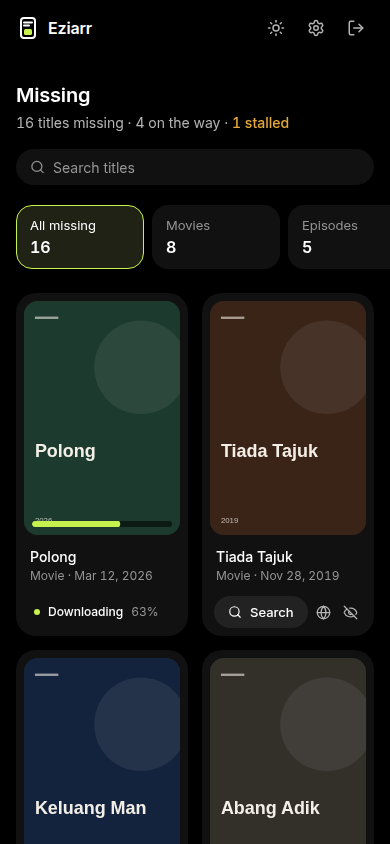
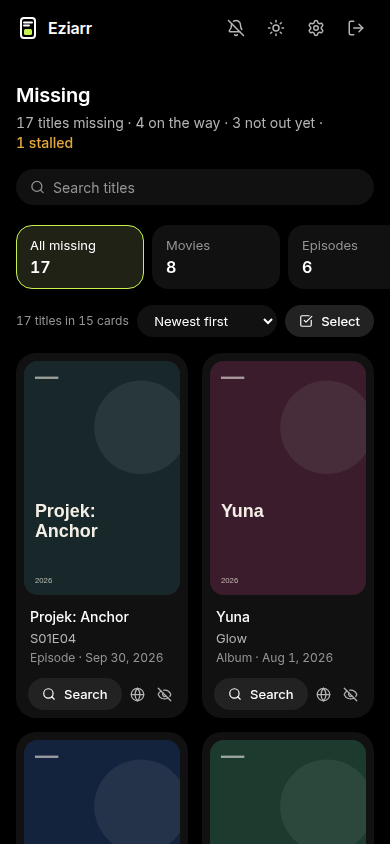
chore: bumpver 1.5.0; docs and screenshots for 1.5
README (features, upgrading to 1.5 and the event stream behind proxies),
DEVELOPER (bulk and stream API, the new frontend modules, the smoke
test), CONTRIBUTING and AGENTS (smoke test, rule 13: the wall stays
virtualized), CHANGELOG 1.5.0, and new screenshots of the wall,
sign-in and first-start setup.

Claude-Session: https://claude.ai/code/session_01VgLCrRvJJ5k5cEMnbjriKV

diff --git a/DEVELOPER.md b/DEVELOPER.md
@@ -99,10 +99,12 @@ Everything is under `/api/v1`. Public: `GET /` (health), `GET`/`POST /firsttime`
 
 | Area | Routes |
 | --- | --- |
-| Missing | `GET /missing` (missing items + all queues + `unavailable` services) · `POST /missing/search` · `POST /missing/deepsearch` (Prowlarr) · `POST /missing/forcegrab` · `POST /missing/unmonitor` |
+| Missing | `GET /missing` (missing items + all queues + `unavailable` services) · `GET /missing/stream` (server-sent events, below) · `POST /missing/search` · `POST /missing/bulk` (`search` or `unmonitor` a selection; one *Arr call per service) · `POST /missing/deepsearch` (Prowlarr) · `POST /missing/forcegrab` · `POST /missing/unmonitor` |
 | Downloads | `POST /telegram/import` · `POST /http/import` · `GET /downloads/queue` · `GET /downloads/history` · `GET /downloads/stats` |
 | Sources | `GET /telegram/status` · `POST /telegram/auth/send-code` · `POST /telegram/auth/login` · `POST /telegram/search` · `POST /ia/search` · `GET /ia/files/:identifier` · `POST /opendir/scan` |
 | Settings & system | `GET`/`POST /settings` · `POST /settings/batch` · `GET /system/status` · `POST /system/test` · `GET /system/tasks` · `GET /system/logs?type=general\|hunter` |
+
+**The live stream.** `GET /missing/stream` sends `event: missing` (the list) and `event: queue` (`{ queue, unavailable }`), each only when it changed, and a `: ping` comment otherwise. One 4 s loop in the server feeds every open stream and stops when the last one closes; the 5 s queue cache in `fetchAllQueues` keeps the *Arrs from being asked more often than that, however many tabs are open. Every tick re-checks the access token the stream opened with, so the stream ends when it expires (15 min) or the password changes; the page then refreshes its session and reconnects (`hooks/useLiveMissing.js`).
 
 Response schemas are enforced: Elysia **drops fields a response model doesn't declare**, so a new field needs adding to its model in `models/` or it never reaches the UI. With `NODE_ENV=development`, the OpenAPI UI is served at `/openapi`.
 
@@ -110,8 +112,16 @@ Response schemas are enforced: Elysia **drops fields a response model doesn't de
 
 | Path | Role |
 | --- | --- |
-| `App.jsx` | Shell (top bar, theme toggle), title row, count-card filters, poster wall; lazy-loads the two sheets. |
-| `components/MediaCard.jsx` | A poster tile: download rail and state, search / deep search / unmonitor. |
+| `App.jsx` | Shell (top bar, theme and notification toggles), title row, count-card filters, sort and select, the wall; lazy-loads the two sheets and the backdrop. |
+| `components/MediaWall.jsx` | The wall, virtualized by row with `@tanstack/react-virtual` against the window scroll: only rows near the screen exist. |
+| `components/MediaCard.jsx`, `SeriesCard.jsx` | A title's card (download rail and state, search / deep search / unmonitor) and a series card (several episodes, with the episode list). |
+| `components/Poster.jsx` | Shared by both cards: the poster with tilt and fallback, the download rail, the card frame and its selection overlay. |
+| `components/BulkBar.jsx` | The action bar of select mode. |
+| `components/PosterDrift.jsx` | The three.js backdrop behind sign-in and "All caught up"; lazy, so the wall never loads three.js. |
+| `utils/wall.js` | Pure helpers: `isUpcoming`, episode codes, folding episodes into series, sorting. |
+| `hooks/useLiveMissing.js` | SWR plus the event stream; polls only while the stream is down. |
+| `hooks/useArrivals.js` | "Downloaded" toasts and opt-in notifications (remembers titles seen downloading until they leave the list). |
+| `hooks/useShortcuts.js` | `/` and Esc. |
 | `components/ResultsModal.jsx` + `*Tab.jsx` | Deep search: Indexers, Telegram, Internet Archive, Open directory. |
 | `components/SettingsModal.jsx` + `settings/*Tab.jsx` | Settings sheet shell (state and data) and one presentational file per tab. |
 | `components/Modal.jsx`, `Tabs.jsx`, `Buttons.jsx`, `Mark.jsx` | Shared primitives: portalled animated dialog, underline tabs, buttons, the logo. |
@@ -122,14 +132,19 @@ Response schemas are enforced: Elysia **drops fields a response model doesn't de
 
 **Design rules:** use the tokens, never raw Tailwind palette colours, so both themes work. Surfaces separate by lightness, not borders or shadows (only floating things like dialogs and toasts get a shadow). The one accent colour goes on data (download progress, the selected filter), not on chrome. The main action is an inverted pill.
 
-**Motion** (`motion/react`, wrapped in `MotionConfig reducedMotion="user"`) is feedback: presses, sheets, rows arriving and leaving, the wall reflowing on filter, progress. Animate transform and opacity only.
+**Motion** (`motion/react`, wrapped in `MotionConfig reducedMotion="user"`) is feedback: presses, sheets, rows arriving and leaving, progress, the poster tilt. Animate transform and opacity only. The wall's cards don't animate in and out: with thousands of titles that cost seconds per filter change.
+
+**The wall must stay virtualized.** Don't render every title (a library can miss thousands), and keep what's derived from the list (filtering, grouping, sorting) in a `useMemo` that doesn't depend on the queue, which changes every few seconds while anything downloads.
+
+`public/` holds the PWA manifest, icons and `sw.js`. The service worker only shows notifications; it has no fetch handler and caches nothing, so a deploy is never hidden behind a stale cache.
 
 ## 🧪 Tests and CI
 
 - `bun test` in `backend/` (or `bun run test` from the root). The suites use the Vitest-style API (`describe`, `it`, `vi.mock`), which Bun provides; there is no Vitest dependency.
 - `tests/setup.js` is preloaded (`bunfig.toml`) and points `EZIARR_DB_DIR`, `EZIARR_LOG_DIR` and `EZIARR_DOWNLOAD_DIR` at a temp directory, removed after the run. Tests never touch `db/`.
 - Test files share one process and one database: clean up rows you create, and don't depend on another file or test having run first. `bun test --randomize` should pass.
-- CI (`.github/workflows/test.yml`) runs on pushes to `main`/`staging`/`dev` and on PRs: backend tests, then `biome ci` and the frontend build, on Bun 1.4.3 with `--frozen-lockfile`.
+- **Browser smoke test** (`frontend/tests/smoke.test.js`, `bun run smoke` after `bun run build`): starts `tests/mock-api.js` (a mock of the API with 600 titles) and `vite preview`, then drives Chrome over the DevTools protocol (`tests/cdp.js`; set `CHROME_BIN` if Chrome isn't on the path). It covers sign-in, the virtualized wall, series cards, filters, sorting, shortcuts, select mode and a download finishing over the stream. The mock is also handy for UI work: `bun tests/mock-api.js` and `bun run dev` (see the header of the file for its switches).
+- CI (`.github/workflows/test.yml`) runs on pushes to `main`/`staging`/`dev` and on PRs: backend tests, then `biome ci`, the frontend build and the smoke test, on Bun 1.4.3 with `--frozen-lockfile`.
 
 ## 🐳 Docker
 

diff --git a/CHANGELOG.md b/CHANGELOG.md
@@ -5,20 +5,43 @@ All notable changes to this project will be documented in this file.
 The format is based on [Keep a Changelog](https://keepachangelog.com/en/1.0.0/),
 and this project adheres to [Semantic Versioning](https://semver.org/spec/v2.0.0.html).
 
-## [Unreleased]
-
-### Changed
-- **The Missing wall renders only the rows on screen.** Large libraries
-  (thousands of missing titles) now open in under a second instead of
-  several, and switching filters no longer freezes the page. Cards no
-  longer animate in and out when the filter changes.
+## [1.5.0] - 2026-10-22
 
 ### Added
+- **Series cards:** when two or more episodes of a show are missing, they
+  fold into one card. "Search all" searches every episode at once; the
+  card opens the episode list, with search, deep search and stop
+  monitoring per episode, or for all of them.
+- **"Not out yet" filter:** titles not released yet (or with no date) are
+  counted and listed apart. "All missing" and the movie, episode and album
+  counts now cover only what a search can find.
+- **Sorting:** newest first, oldest first or title A–Z, remembered per
+  browser.
+- **Select mode:** pick titles (or whole series) and search for, or stop
+  monitoring, all of them at once. New API: `POST /api/v1/missing/bulk`,
+  one *Arr call per service.
+- **Live updates:** the wall follows a server-sent event stream
+  (`GET /api/v1/missing/stream`) instead of downloading the whole list
+  every 10 seconds; it falls back to polling when the stream is down.
+- **"Downloaded" toasts**, and opt-in system notifications (the bell in
+  the top bar) while Eziarr is open in the background. Needs HTTPS.
+- **Install as an app:** a web app manifest and icons.
+- **Shortcuts:** `/` jumps to search; Esc clears it or leaves select mode.
 - **Sign-in backdrop:** blank poster cards drift slowly towards you behind
-  the sign-in and setup forms (three.js, loaded only on those screens). It
-  holds still for reduced motion and is skipped without WebGL.
+  the sign-in and setup forms, and more calmly behind "All caught up"
+  (three.js, loaded only on those screens). It holds still for reduced
+  motion and is skipped without WebGL.
 - **Poster tilt:** with a mouse, a poster leans towards the pointer and
   catches a soft light.
+- **Browser smoke test in CI**, against a mock API.
+
+### Changed
+- **The wall renders only the rows on screen.** With 3000 missing titles
+  it now shows in about 0.7 s instead of 5 s, and a filter change takes
+  about 0.15 s instead of 12 s. Cards no longer animate in and out when
+  the filter changes.
+- Episode cards show the episode code ("S02E07") under the series name
+  instead of repeating the series name.
 
 ## [1.4.1] - 2026-10-22
 

diff --git a/README.md b/README.md
@@ -8,8 +8,12 @@ Eziarr sits beside your *Arr stack. It lists every missing movie, episode and al
 
 ## ✨ Features
 
-- **One wall for everything missing.** Radarr, Sonarr and Lidarr in a single poster wall, filtered by movies, episodes, albums or what's on its way, with a search box and a light/dark theme.
-- **Live download state on every title.** Each poster shows whether it's downloading (with real progress), queued or stalled, and the title row says how many are missing, on the way and stalled.
+- **One wall for everything missing.** Radarr, Sonarr and Lidarr in a single poster wall, filtered by movies, episodes, albums or what's on its way, sorted by release date or title, with a search box (`/`) and a light/dark theme. It stays fast with thousands of titles.
+- **A series is one card.** When several episodes of a show are missing, they fold into one card: search them all at once, or open the episode list.
+- **"Not out yet" kept apart.** Titles that haven't been released (or have no date) get their own filter, so "missing" means something a search can find.
+- **Act on many at once.** Select titles and search for, or stop monitoring, all of them in one go.
+- **Live download state on every title.** Each poster shows whether it's downloading (with real progress), queued or stalled, updated as it happens. When a download finishes you get a toast, and, if you turn them on, a system notification while Eziarr is in the background.
+- **Install it as an app** on your phone or desktop (over HTTPS).
 - **Hunter.** A background worker re-searches old missing items on your indexers on a schedule.
 - **Deep search** when the indexers fail:
   - **Indexers** via Prowlarr, with a **force grab** that temporarily lifts quality-profile, language and queue restrictions to push a release through.
@@ -132,6 +136,10 @@ Other settings (*Arr connections, Prowlarr, Telegram, sync and hunter intervals,
 - Eziarr works over plain `http://` on a LAN. If you expose it to the internet, put it behind an HTTPS reverse proxy.
 
 Found a security problem? Please report it privately; see [CONTRIBUTING.md](CONTRIBUTING.md#reporting-security-issues).
+
+## ⬆ Upgrading to 1.5
+
+Nothing to change. The wall now follows a live event stream (`/api/v1/missing/stream`) instead of polling every 10 seconds. Traefik and Caddy pass it through as is; nginx honours the `X-Accel-Buffering: no` header Eziarr sends. If a proxy holds the stream back anyway, the page notices and goes back to polling.
 
 ## ⬆ Upgrading to 1.4
 

diff --git a/AGENTS.md b/AGENTS.md
@@ -12,6 +12,8 @@ Guidance for AI coding agents (and humans in a hurry) working on Eziarr. Archite
 | One test file | `cd backend && bun test tests/import.test.js` |
 | Frontend lint + format check | `cd frontend && bun run check` (`bunx biome check --write` to fix) |
 | Frontend build | `cd frontend && bun run build` (writes `../client`) |
+| Browser smoke test | `cd frontend && bun run smoke` (after a build; needs Chrome, `CHROME_BIN` to pick one) |
+| UI against fake data | `cd frontend && bun tests/mock-api.js` then `bun run dev` (`COUNT=3000` for a large library) |
 
 Use Bun, not npm/node, for everything. There is no Vitest package: `bun test` provides the `vitest` imports.
 
@@ -29,6 +31,7 @@ Use Bun, not npm/node, for everything. There is no Vitest package: `bun test` pr
 10. **Docker installs use `--frozen-lockfile`; the backend also uses `--ignore-scripts`.** Bun 1.4 otherwise deletes `bufferutil` on Alpine and the server crashes on boot. Smoke-test a built image after changing the Dockerfile or the Bun version.
 11. **No top-level `await` in `backend/index.js` or `worker.js`.** PM2 loads them with `require()`, which Bun refuses when a top-level await really suspends; the server crash-looped in 1.4.0. `tests/pm2-load.test.js` loads `index.js` the PM2 way. Likewise, don't detect the process from `Bun.main` (under PM2 it's PM2's wrapper); use `EZIARR_ROLE` from `ecosystem.config.js`.
 12. **Frontend colours come from tokens** (`bg-surface`, `text-ink`, `text-muted`, `bg-accent`, … in `src/index.css`), never raw Tailwind palette classes, so light and dark both work. Motion animates transform and opacity only.
+13. **The wall stays virtualized.** 1.4.1 rendered every title: 3000 cards took 5 s to appear and 12 s per filter change. Keep `MediaWall`, and keep derived lists in a `useMemo` that doesn't depend on the queue.
 
 ## Conventions
 

diff --git a/CONTRIBUTING.md b/CONTRIBUTING.md
@@ -21,6 +21,7 @@ bun run dev            # server, worker and Vite together
 cd backend  && bun test              # all backend tests
 cd frontend && bun run check         # Biome: lint + formatting
 cd frontend && bun run build         # the UI still builds
+cd frontend && bun run smoke         # the built UI in headless Chrome
 ```
 
 CI runs the same checks on every pull request.
